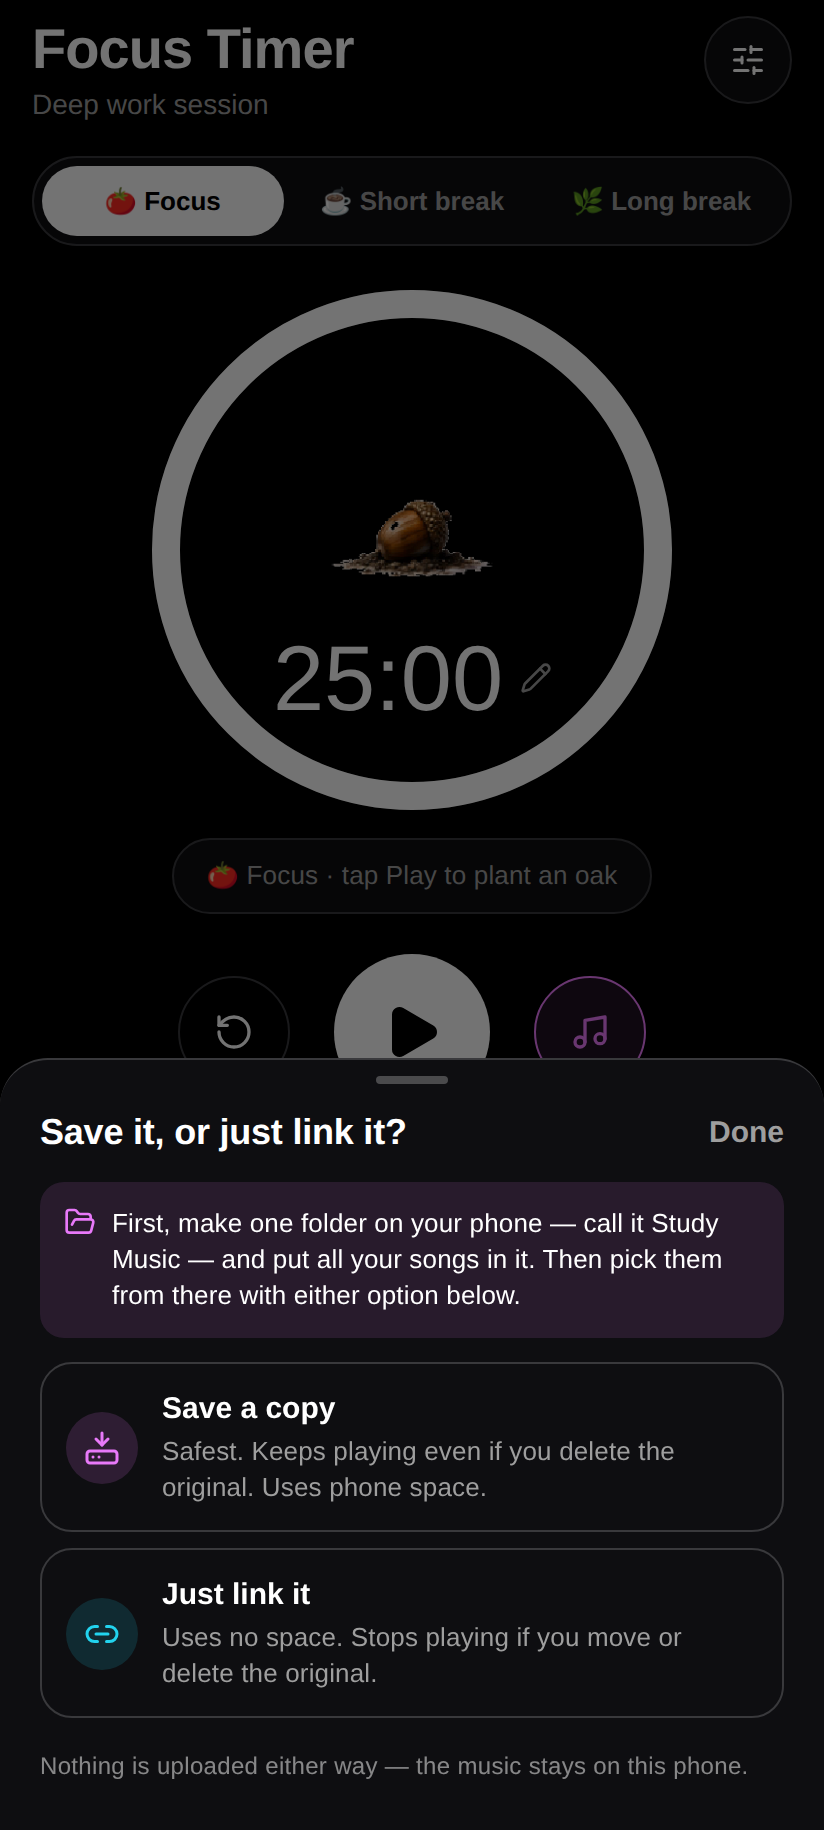
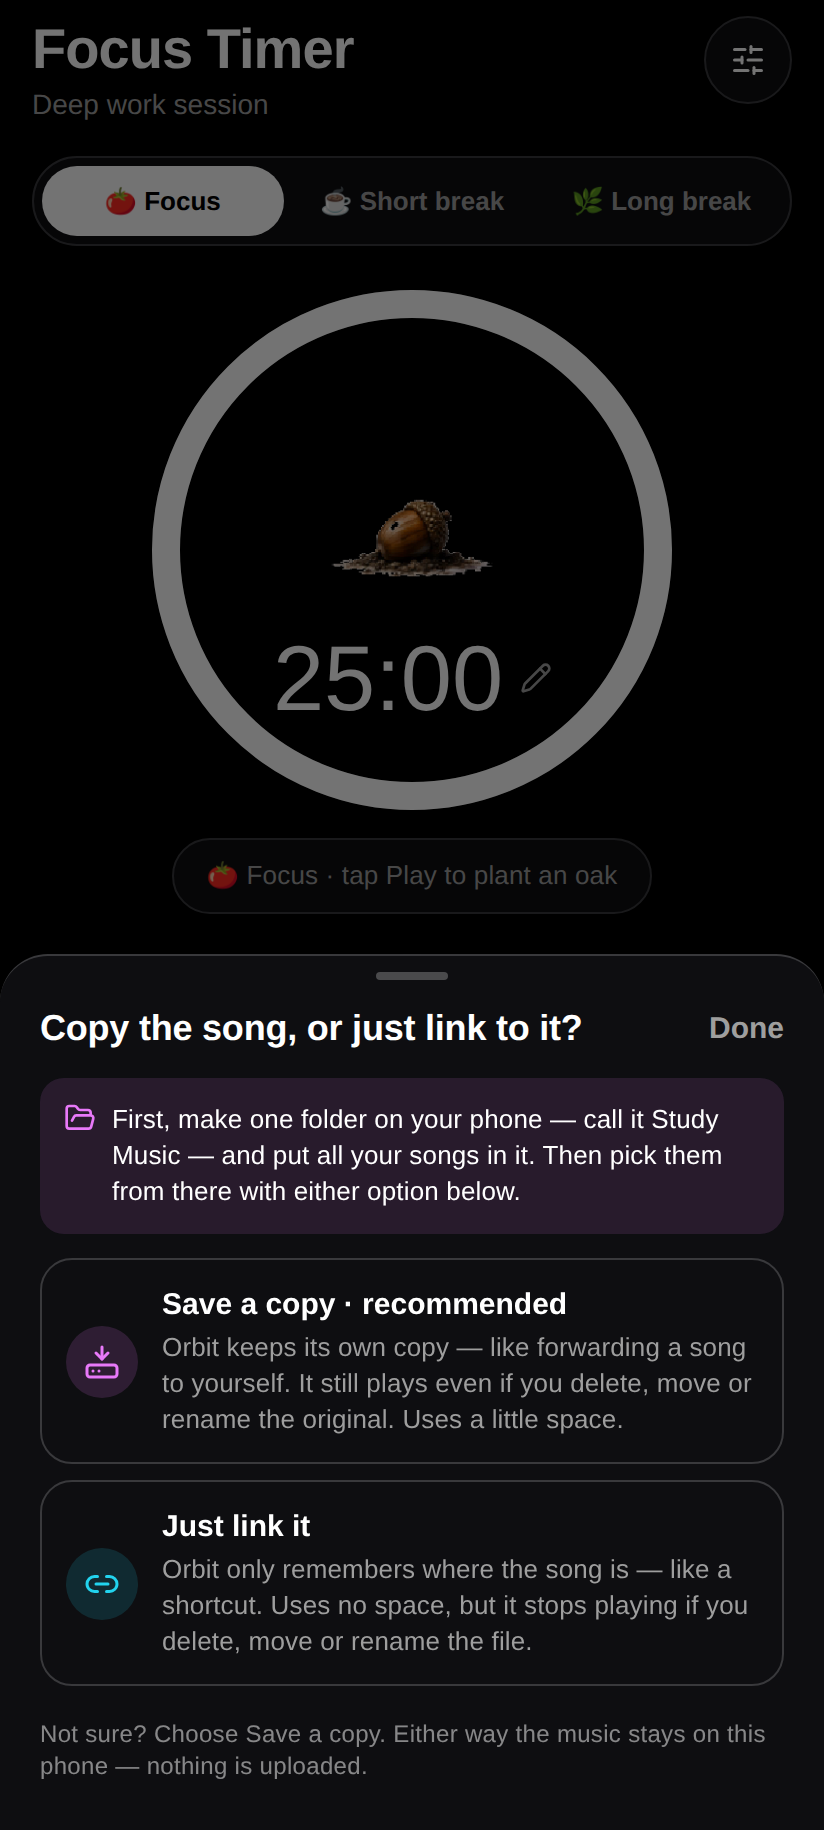
fix(files): each picker reopens its own folder, and the copy/link choice explains itself
TWO PICKERS SHARED ONE MEMORY. Android's document picker keeps a single "last
visited" location per app, not one per purpose, and both the music player and
note attachments go through the same `ACTION_OPEN_DOCUMENT`. So choosing a
track from a music folder left the note-attachment picker opening in that same
folder — a list of songs when the reader wanted a scan or a lecture recording,
and it read as the app being stuck there.

`pick` now takes a bucket name ('music', 'note-media'). The module remembers
the last document each bucket picked, in SharedPreferences so it survives the
app being killed, and passes it as `EXTRA_INITIAL_URI` — which opens the picker
in that document's folder. Remembered only on a successful pick: a file that
failed to copy is not a folder to send anybody back to. API 26 and up; on 24
and 25 the extra is absent and the picker behaves exactly as before, and any
provider that does not recognise the URI ignores it.

"SAVE A COPY OR JUST LINK IT" DID NOT EXPLAIN ITSELF. A reader could not tell
the two apart, and the wording was already on its second attempt: two
paragraphs first, then trimmed to the consequences alone — "Works even if you
delete the original. Uses phone space." That is accurate and it assumes the
reader knows what a copy and a link ARE here, which is the assumption that
failed. The words are ordinary English; the distinction is a filesystem one.

Each option now opens with something they have certainly done — "like
[…]

diff --git a/mobile/android/app/src/main/java/com/aistudio/mbbsqbank/aycxvd/FilesModule.kt b/mobile/android/app/src/main/java/com/aistudio/mbbsqbank/aycxvd/FilesModule.kt
@@ -1,8 +1,11 @@
 package com.aistudio.mbbsqbank.aycxvd
 
 import android.app.Activity
+import android.content.Context
 import android.content.Intent
 import android.net.Uri
+import android.os.Build
+import android.provider.DocumentsContract
 import android.provider.OpenableColumns
 import com.facebook.react.bridge.ActivityEventListener
 import com.facebook.react.bridge.BaseActivityEventListener
@@ -46,6 +49,16 @@ class FilesModule(reactContext: ReactApplicationContext) :
   /** 'copy' or 'link', for the pick currently in flight. */
   private var pendingMode: String = MODE_COPY
 
+  /**
+   * Which picker is up, so the folder it lands on is remembered for that one.
+   *
+   * Android's document picker keeps ONE "last visited" location per app, not
+   * one per purpose. Adding a track from a music folder therefore left the
+   * note-attachment picker opening in that music folder — the wrong place for
+   * a scan or a lecture recording, and it read as the app being stuck there.
+   */
+  private var pendingBucket: String = ""
+
   private val activityListener: ActivityEventListener =
     object : BaseActivityEventListener() {
       // `activity` is non-null in BaseActivityEventListener; declaring it
@@ -74,6 +87,9 @@ class FilesModule(reactContext: ReactApplicationContext) :
         try {
           val record =
             if (pendingMode == MODE_LINK) linkUri(uri) else importUri(uri)
+          // Remembered only on success: a pick that failed to copy is not a
+          // folder worth sending anybody back to.
+          rememberFolder(pendingBucket, uri)
           promise.resolve(record.toString())
         } catch (error: Throwable) {
           promise.reject("import_failed", error.message ?: "Could not keep that file.", error)
@@ -92,7 +108,22 @@ class FilesModule(reactContext: ReactApplicationContext) :
     super.invalidate()
   }
 
-  override fun pick(mode: String, kinds: String, promise: Promise) {
+  /**
+   * Where a given picker was last used, remembered per bucket.
+   *
+   * SharedPreferences rather than a field: the point is to survive the app
+   * being killed, which is exactly when a reader comes back and expects the
+   * picker to still know where their notes live.
+   */
+  private fun lastFolderPrefs() =
+    reactApplicationContext.getSharedPreferences(PICKER_PREFS, Context.MODE_PRIVATE)
+
+  private fun rememberFolder(bucket: String, uri: Uri) {
+    if (bucket.isBlank()) return
+    lastFolderPrefs().edit().putString(bucket, uri.toString()).apply()
+  }
+
+  override fun pick(mode: String, kinds: String, bucket: String, promise: Promise) {
     val activity = getCurrentActivity()
     if (activity == null) {
       promise.resolve("")
@@ -103,6 +134,7 @@ class FilesModule(reactContext: ReactApplicationContext) :
     pending?.resolve("")
     pending = promise
     pendingMode = if (mode == MODE_LINK) MODE_LINK else MODE_COPY
+    pendingBucket = bucket
 
     val intent = Intent(Intent.ACTION_OPEN_DOCUMENT).apply {
       addCategory(Intent.CATEGORY_OPENABLE)
@@ -143,6 +175,24 @@ class FilesModule(reactContext: ReactApplicationContext) :
         Intent.FLAG_GRANT_READ_URI_PERMISSION or
           Intent.FLAG_GRANT_PERSISTABLE_URI_PERMISSION,
       )
+      /*
+       * Open where THIS picker was last used, not where any picker was.
+       *
+       * The system remembers one location per app, so adding music from a
+       * music folder left the note-attachment picker opening there too — a
+       * folder full of songs when the reader wanted a scan. Naming the last
+       * document each bucket picked overrides that: the picker opens in the
+       * folder that document lives in.
+       *
+       * API 26. `minSdkVersion` is 24, and on 24 and 25 this is simply absent
+       * and the picker behaves as it did before — the setting is a hint in
+       * any case, and a provider that does not recognise the URI ignores it.
+       */
+      if (Build.VERSION.SDK_INT >= Build.VERSION_CODES.O && bucket.isNotBlank()) {
+        lastFolderPrefs().getString(bucket, null)?.let { remembered ->
+          putExtra(DocumentsContract.EXTRA_INITIAL_URI, Uri.parse(remembered))
+        }
+      }
     }
     try {
       activity.startActivityForResult(intent, REQUEST_CODE)
@@ -373,5 +423,8 @@ class FilesModule(reactContext: ReactApplicationContext) :
     private const val REQUEST_CODE = 4204
     private const val MODE_COPY = "copy"
     private const val MODE_LINK = "link"
+
+    /** Where each picker was last used. One entry per bucket. */
+    private const val PICKER_PREFS = "orbit-picker-folders"
   }
 }

diff --git a/mobile/src/components/ProgressNotesTab.tsx b/mobile/src/components/ProgressNotesTab.tsx
@@ -1014,33 +1014,44 @@ export function ProgressNotesTab({ year }: Props) {
       <Sheet
         visible={attachOpen}
         onClose={() => setAttachOpen(false)}
-        title="Save it, or just link it?">
+        title="Copy the file, or just link to it?">
         {/*
-          One line each.
+          Say what each one IS, with something the reader has already done.
 
-          This started as two paragraphs and the reader's friend called it
-          confusing, which it was — a choice presented as an essay is a choice
-          nobody reads. The whole decision is "does it survive the original
-          being deleted, and does it cost space", so that is the whole text.
+          This has been through two versions and a reader still could not tell
+          them apart. It was two paragraphs first — an essay nobody reads. Then
+          it was trimmed to the consequences alone ("Works even if you delete
+          the original. Uses phone space."), which is accurate and assumes the
+          reader already knows what a copy and a link ARE in this context. That
+          is the assumption that failed: the words are ordinary English and the
+          distinction is a filesystem one.
+
+          So each option now opens with a comparison to something they have
+          certainly done — forwarding a photo to themselves, and a shortcut —
+          and the consequence follows it. And the sheet names a default, so
+          somebody who does not want to think about it does not have to.
         */}
         <Touchable
           onPress={() => addFile("copy")}
-          label="Save a copy in Orbit. Uses phone space, and keeps working if you delete the original"
+          label="Save a copy in Orbit, recommended. Orbit keeps its own copy, so the note still opens the file even if you delete or move the original. Uses a little space."
           style={[styles.modeRow, { backgroundColor: colors.card, borderColor: colors.border }]}>
           <View style={[styles.modeIcon, { backgroundColor: withAlpha(colors.fuchsia, 0.15) }]}>
             <HardDriveDownload size={18} color={colors.fuchsia} />
           </View>
           <View style={styles.flex}>
-            <Text style={[styles.rowTitle, { color: colors.text }]}>Save a copy</Text>
+            <Text style={[styles.rowTitle, { color: colors.text }]}>
+              Save a copy · recommended
+            </Text>
             <Text style={[styles.rowSub, { color: colors.textMuted }]}>
-              Safest. Works even if you delete the original. Uses phone space.
+              Orbit keeps its own copy — like forwarding a photo to yourself. The note still
+              opens it even if you delete, move or rename the original. Uses a little space.
             </Text>
           </View>
         </Touchable>
 
         <Touchable
           onPress={() => addFile("link")}
-          label="Just link it. Uses no space, and stops working if you delete or move the original"
+          label="Just link it. Orbit only remembers where the file is, like a shortcut. Uses no space, but stops working if you delete or move the file."
           style={[styles.modeRow, { backgroundColor: colors.card, borderColor: colors.border }]}>
           <View style={[styles.modeIcon, { backgroundColor: withAlpha(colors.cyan, 0.15) }]}>
             <Link2 size={18} color={colors.cyan} />
@@ -1048,13 +1059,15 @@ export function ProgressNotesTab({ year }: Props) {
           <View style={styles.flex}>
             <Text style={[styles.rowTitle, { color: colors.text }]}>Just link it</Text>
             <Text style={[styles.rowSub, { color: colors.textMuted }]}>
-              Uses no space. Stops working if you delete or move the original.
+              Orbit only remembers where the file is — like a shortcut. Uses no space, but the
+              note stops opening it if you delete, move or rename the file.
             </Text>
           </View>
         </Touchable>
 
         <Text style={[styles.note, { color: withAlpha(colors.text, 0.5) }]}>
-          Nothing is uploaded either way — the file stays on this phone.
+          Not sure? Choose Save a copy. Either way the file stays on this phone — nothing is
+          uploaded.
         </Text>
       </Sheet>
 

diff --git a/mobile/src/components/MusicPlayer.tsx b/mobile/src/components/MusicPlayer.tsx
@@ -527,7 +527,7 @@ export function MusicPlayer({ onClose }: { onClose: () => void }) {
       <Sheet
         visible={chooserOpen}
         onClose={() => setChooserOpen(false)}
-        title="Save it, or just link it?">
+        title="Copy the song, or just link to it?">
         <View style={[styles.tip, { backgroundColor: withAlpha(colors.accent, 0.12) }]}>
           <FolderOpen size={16} color={colors.accent} />
           <Text style={[styles.tipText, { color: colors.text }]}>
@@ -538,22 +538,25 @@ export function MusicPlayer({ onClose }: { onClose: () => void }) {
 
         <Touchable
           onPress={() => add('copy')}
-          label="Save a copy in Orbit. Uses phone space, and keeps playing if you delete the original"
+          label="Save a copy in Orbit, recommended. Orbit keeps its own copy, so it still plays even if you delete or move the original. Uses a little space."
           style={[styles.modeRow, { backgroundColor: colors.card, borderColor: colors.border }]}>
           <View style={[styles.modeIcon, { backgroundColor: withAlpha(colors.fuchsia, 0.15) }]}>
             <HardDriveDownload size={18} color={colors.fuchsia} />
           </View>
           <View style={styles.modeBody}>
-            <Text style={[styles.rowTitle, { color: colors.text }]}>Save a copy</Text>
+            <Text style={[styles.rowTitle, { color: colors.text }]}>
+              Save a copy · recommended
+            </Text>
             <Text style={[styles.rowSub, { color: colors.textMuted }]}>
-              Safest. Keeps playing even if you delete the original. Uses phone space.
+              Orbit keeps its own copy — like forwarding a song to yourself. It still plays even
+              if you delete, move or rename the original. Uses a little space.
             </Text>
           </View>
         </Touchable>
 
         <Touchable
           onPress={() => add('link')}
-          label="Just link it. Uses no space, and stops playing if you delete or move the original"
+          label="Just link it. Orbit only remembers where the song is, like a shortcut. Uses no space, but stops playing if you delete or move the file."
           style={[styles.modeRow, { backgroundColor: colors.card, borderColor: colors.border }]}>
           <View style={[styles.modeIcon, { backgroundColor: withAlpha(colors.cyan, 0.15) }]}>
             <Link2 size={18} color={colors.cyan} />
@@ -561,13 +564,15 @@ export function MusicPlayer({ onClose }: { onClose: () => void }) {
           <View style={styles.modeBody}>
             <Text style={[styles.rowTitle, { color: colors.text }]}>Just link it</Text>
             <Text style={[styles.rowSub, { color: colors.textMuted }]}>
-              Uses no space. Stops playing if you move or delete the original.
+              Orbit only remembers where the song is — like a shortcut. Uses no space, but it
+              stops playing if you delete, move or rename the file.
             </Text>
           </View>
         </Touchable>
 
         <Text style={[styles.sheetNote, { color: withAlpha(colors.text, 0.5) }]}>
-          Nothing is uploaded either way — the music stays on this phone.
+          Not sure? Choose Save a copy. Either way the music stays on this phone — nothing is
+          uploaded.
         </Text>
       </Sheet>
     </GlassSurface>

diff --git a/mobile/src/native/NativeOrbitFiles.ts b/mobile/src/native/NativeOrbitFiles.ts
@@ -40,8 +40,16 @@ export interface Spec extends TurboModule {
    * Picking and copying are one call on purpose: a content URI handed to
    * JavaScript and passed back is a grant that can lapse in between, and the
    * failure would look like a file that imported and then was not there.
+   *
+   * `bucket` names WHICH picker this is, so each one reopens where it was last
+   * used. Android's document picker remembers one location per app, not per
+   * purpose: choosing a track from a music folder left the note-attachment
+   * picker opening in that same music folder, which is the wrong place for a
+   * scan or a lecture recording and looked like the app had got stuck there.
+   * Pass a stable name — `'music'`, `'note-media'` — and nothing else has to
+   * change.
    */
-  pick(mode: string, kinds: string): Promise<string>;
+  pick(mode: string, kinds: string, bucket: string): Promise<string>;
 
   /**
    * What a copied audio file says about itself.

diff --git a/mobile/src/lib/music.ts b/mobile/src/lib/music.ts
@@ -143,7 +143,7 @@ export async function pickTrack(mode: AttachMode = 'copy'): Promise<PickResult> 
 
   let raw: string;
   try {
-    raw = await native.pick(mode, 'audio/*');
+    raw = await native.pick(mode, 'audio/*', 'music');
   } catch (error) {
     warn('[music] picker failed:', error);
     return { error: 'That file could not be added.' };

diff --git a/mobile/preview/shims/orbit-files.ts b/mobile/preview/shims/orbit-files.ts
@@ -72,7 +72,7 @@ const sizeOf = (want: keyof typeof SAMPLES) =>
   want === 'video' ? 42_000_000 : want === 'pdf' ? 1_400_000 : 6_800;
 
 export default {
-  pick: async (mode: string) => {
+  pick: async (mode: string, _kinds?: string, _bucket?: string) => {
     const want = globalThis.__orbitPickFile;
     if (!want) {
       return '';

diff --git a/mobile/src/lib/noteFiles.ts b/mobile/src/lib/noteFiles.ts
@@ -97,7 +97,7 @@ export async function attachNoteFile(
   }
   let raw: string;
   try {
-    raw = await native.pick(mode, '');
+    raw = await native.pick(mode, '', 'note-media');
   } catch (error) {
     warn('note file pick failed:', error);
     return {
